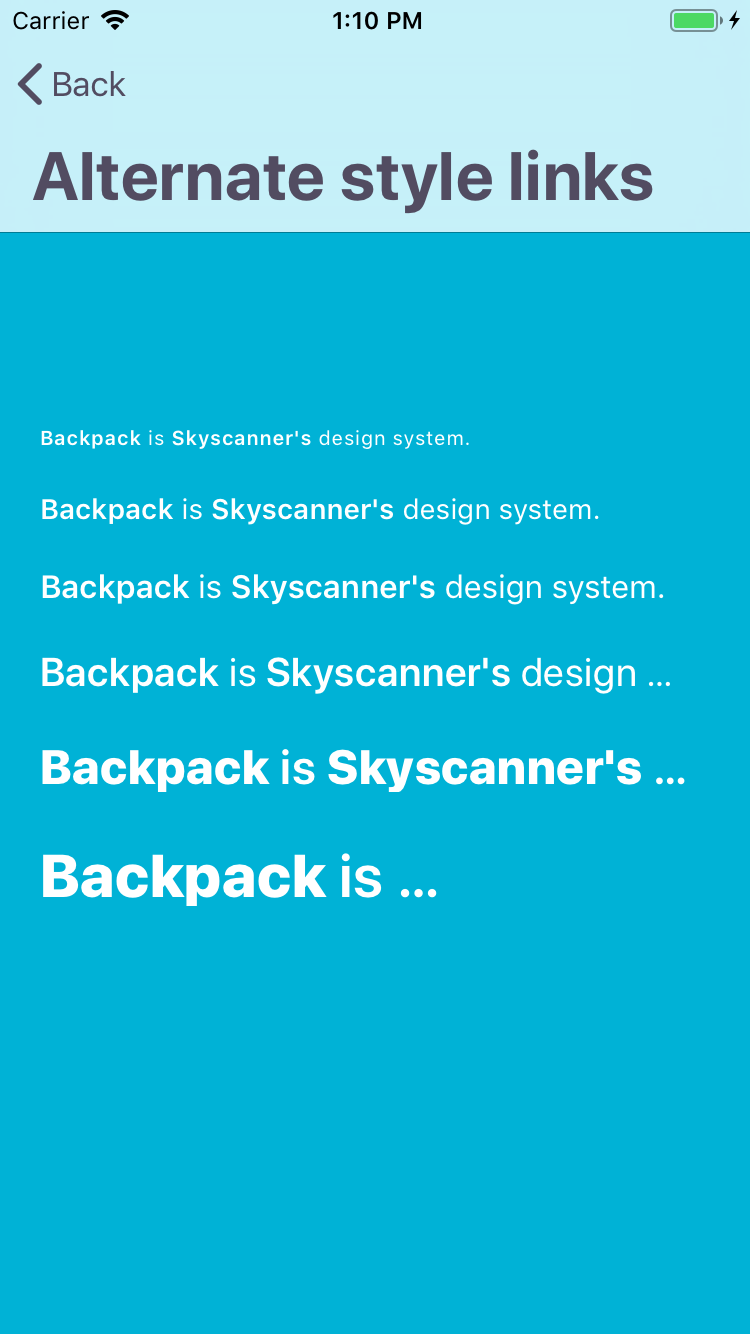
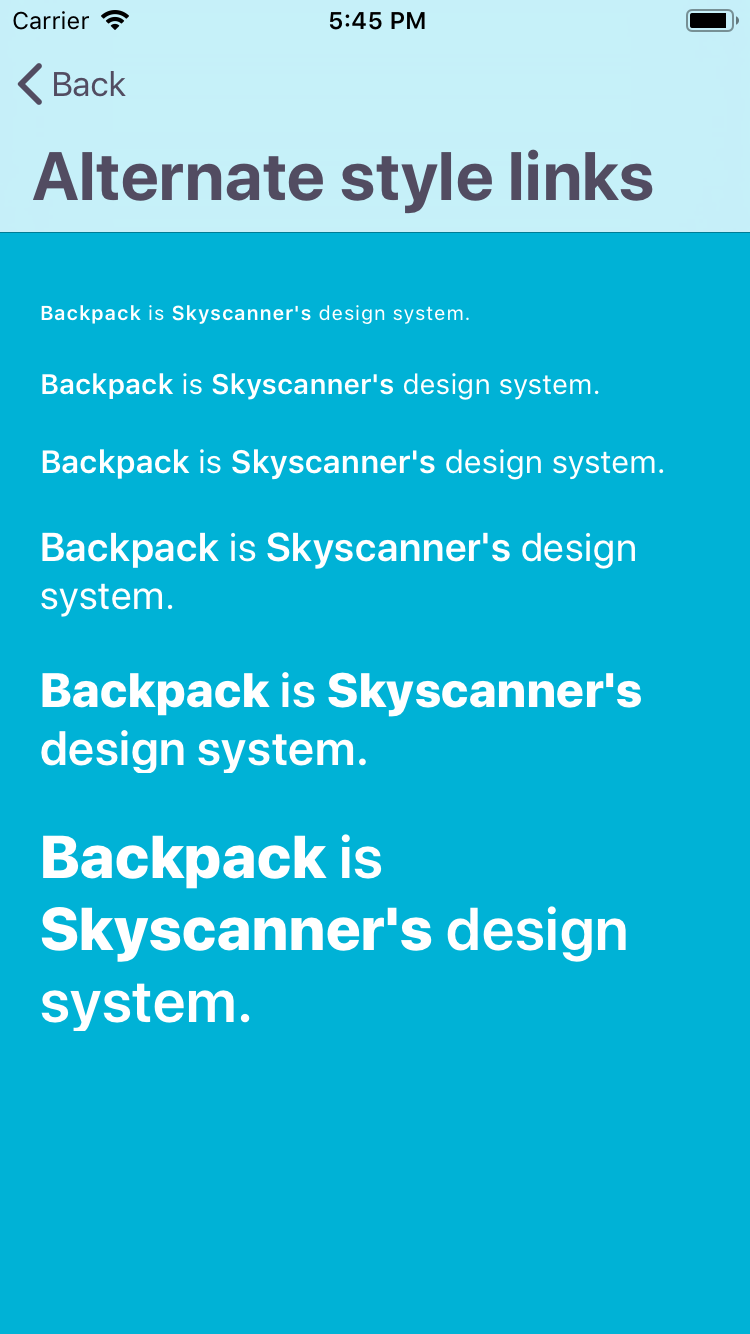
[BPK-2596] Add ID API to Tappable Link Labels

diff --git a/Example/Backpack/View Controllers/TappableLinkLabelsViewController.swift b/Example/Backpack/View Controllers/TappableLinkLabelsViewController.swift
@@ -24,7 +24,13 @@ enum LinkCount {
     case double
 }
 
-class TappableLinkLabelsViewController: UIViewController {
+enum LinkType {
+    case web
+    case print
+}
+
+class TappableLinkLabelsViewController: UIViewController, BPKTappableLinkLabelDelegate {
+    var linkType: LinkType = .web
     var linkCount: LinkCount = .single
     var style: BPKTappableLinkLabelStyle = .default
     var fontStyles = [
@@ -60,21 +66,32 @@ class TappableLinkLabelsViewController: UIViewController {
             tappableLink.fontStyle = fontStyles[linkIndex]
             tappableLink.style = style
             tappableLink.delegate = self
-            tappableLink.numberOfLines = 2
+            tappableLink.numberOfLines = 3
 
-            tappableLink.addLink(to: URL(string: "https://backpack.github.io/")!, with: firstRange)
+            if linkType == .web {
+                tappableLink.addLink(to: URL(string: "https://backpack.github.io/")!, with: firstRange)
 
-            if linkCount == .double {
-                tappableLink.addLink(to: URL(string: "https://www.skyscanner.net/")!, with: secondRange)
+                if linkCount == .double {
+                    tappableLink.addLink(to: URL(string: "https://www.skyscanner.net/")!, with: secondRange)
+                }
+            }
+            if linkType == .print {
+                tappableLink.addLink(toTransitInformation: ["link text": "Backpack"], with: firstRange)
+
+                if linkCount == .double {
+                    tappableLink.addLink(toTransitInformation: ["link text": "Skyscanner's"], with: secondRange)
+                }
             }
             linkIndex += 1
         }
     }
 
-}
-
-extension TappableLinkLabelsViewController: BPKTappableLinkLabelDelegate {
     func attributedLabel(_ label: TappableLinkLabel, didSelectLinkWith url: URL) {
         UIApplication.shared.open(url, options: [:], completionHandler: nil)
+    }
+
+    func attributedLabel(_ label: TappableLinkLabel,
+                         didSelectLinkWithTransitInformation components: [AnyHashable: Any]) {
+        print(components)
     }
 }

diff --git a/Example/Backpack/View Controllers/TappableLinkLabelsSelectorViewController.swift b/Example/Backpack/View Controllers/TappableLinkLabelsSelectorViewController.swift
@@ -33,6 +33,10 @@ class TappableLinkLabelsSelectorViewController: UITableViewController {
             segue.destination.title = "Alternate style links"
             maybeTappableLinkLabelsController?.linkCount = .double
             maybeTappableLinkLabelsController?.style = .alternate
+        case "NonURLLinks":
+            segue.destination.title = "Non-URL links"
+            maybeTappableLinkLabelsController?.linkCount = .double
+            maybeTappableLinkLabelsController?.linkType = .print
         default:
             fatalError("Unknown segue identifer \(segue.identifier.debugDescription)")
         }

diff --git a/Example/Backpack/View Controllers/TextViewsViewController.swift b/Example/Backpack/View Controllers/TextViewsViewController.swift
@@ -25,6 +25,5 @@ class TextViewsViewController: UIViewController {
     override func viewDidLoad() {
         super.viewDidLoad()
 
-        textView.accessibilityIdentifier = "textView"
     }
 }

diff --git a/Backpack/TappableLinkLabel/Classes/BPKTappableLinkLabel.m b/Backpack/TappableLinkLabel/Classes/BPKTappableLinkLabel.m
@@ -121,7 +121,8 @@ NS_ASSUME_NONNULL_BEGIN
 }
 
 - (BPKFontStyle)linkFontStyle {
-    return self.style == BPKTappableLinkLabelStyleAlternate ? [self getEmphasizedFontStyleFor:self.fontStyle] : self.fontStyle;
+    return self.style == BPKTappableLinkLabelStyleAlternate ? [self getEmphasizedFontStyleFor:self.fontStyle]
+                                                            : self.fontStyle;
 }
 
 - (NSDictionary *)customFontAttributes {
@@ -129,7 +130,7 @@ NS_ASSUME_NONNULL_BEGIN
 }
 
 - (UIColor *)linkDisplayColor {
-    if(self.style == BPKTappableLinkLabelStyleAlternate) {
+    if (self.style == BPKTappableLinkLabelStyleAlternate) {
         return BPKColor.white;
     }
 
@@ -137,8 +138,10 @@ NS_ASSUME_NONNULL_BEGIN
 }
 
 - (void)updateTextColors {
-    NSDictionary *linkCustomAttributes =
-        @{NSForegroundColorAttributeName: self.linkDisplayColor, NSUnderlineStyleAttributeName: @(NSUnderlineStyleNone)};
+    NSDictionary *linkCustomAttributes = @{
+        NSForegroundColorAttributeName: self.linkDisplayColor,
+        NSUnderlineStyleAttributeName: @(NSUnderlineStyleNone)
+    };
     self.contentView.linkAttributes = [BPKFont attributesForFontStyle:self.linkFontStyle
                                                  withCustomAttributes:linkCustomAttributes
                                                           fontMapping:self.fontMapping];
@@ -160,16 +163,22 @@ NS_ASSUME_NONNULL_BEGIN
         return;
     }
 
-    NSDictionary<NSAttributedStringKey, id> *newStringAttributes = [BPKFont attributesForFontStyle:self.fontStyle
-                                                                            withCustomAttributes:self.customFontAttributes
-                                                                                     fontMapping:self.fontMapping];
+    NSDictionary<NSAttributedStringKey, id> *newStringAttributes =
+        [BPKFont attributesForFontStyle:self.fontStyle
+                   withCustomAttributes:self.customFontAttributes
+                            fontMapping:self.fontMapping];
 
-    NSAttributedString *newString = [[NSAttributedString alloc] initWithString:self.text attributes:newStringAttributes];
+    NSAttributedString *newString = [[NSAttributedString alloc] initWithString:self.text
+                                                                    attributes:newStringAttributes];
     self.contentView.text = newString;
 
     // Re-apply the links
     for (BPKTappableLinkDefinition *linkDefinition in _persistedLinks) {
-        [self.contentView addLinkToURL:linkDefinition.url withRange:linkDefinition.range];
+        if (linkDefinition.url) {
+            [self.contentView addLinkToURL:linkDefinition.url withRange:linkDefinition.range];
+        } else {
+            [self.contentView addLinkToTransitInformation:linkDefinition.components withRange:linkDefinition.range];
+        }
     }
 }
 
@@ -177,6 +186,13 @@ NS_ASSUME_NONNULL_BEGIN
     [_persistedLinks addObject:[[BPKTappableLinkDefinition alloc] initWithURL:url range:range]];
 
     [self.contentView addLinkToURL:url withRange:range];
+    return self;
+}
+
+- (instancetype)addLinkToTransitInformation:(NSDictionary *)components withRange:(NSRange)range {
+    [_persistedLinks addObject:[[BPKTappableLinkDefinition alloc] initWithTransitInformation:components range:range]];
+
+    [self.contentView addLinkToTransitInformation:components withRange:range];
     return self;
 }
 
@@ -228,7 +244,7 @@ NS_ASSUME_NONNULL_BEGIN
 }
 
 - (void)setNumberOfLines:(NSInteger)numberOfLines {
-    if(self.contentView.numberOfLines != numberOfLines) {
+    if (self.contentView.numberOfLines != numberOfLines) {
         self.contentView.numberOfLines = numberOfLines;
     }
 }
@@ -242,6 +258,12 @@ NS_ASSUME_NONNULL_BEGIN
 - (void)attributedLabel:(BPKTappableLinkLabel *)label didSelectLinkWithURL:(NSURL *)url {
     if (self.delegate != nil) {
         [self.delegate attributedLabel:label didSelectLinkWithURL:url];
+    }
+}
+
+- (void)attributedLabel:(BPKTappableLinkLabel *)label didSelectLinkWithTransitInformation:(NSDictionary *)components {
+    if (self.delegate != nil) {
+        [self.delegate attributedLabel:label didSelectLinkWithTransitInformation:components];
     }
 }
 

diff --git a/Backpack/TextView/Classes/BPKTextView.m b/Backpack/TextView/Classes/BPKTextView.m
@@ -80,25 +80,18 @@ NS_ASSUME_NONNULL_BEGIN
     self.attributedText = attributedString;
 }
 
-- (void)setTextColor:(UIColor * _Nullable)textColor {
-    BPKAssertMainThread();
-    [super setTextColor:textColor];
-
-    [self updateStyle];
-}
-
 - (void)setFontStyle:(BPKFontStyle)fontStyle {
     BPKAssertMainThread();
     _fontStyle = fontStyle;
 
-    [self updateStyle];
+    [self setText:self.attributedText.string];
 }
 
 - (void)setFontMapping:(BPKFontMapping *_Nullable)fontMapping {
     BPKAssertMainThread();
     _fontMapping = fontMapping;
 
-    [self updateStyle];
+    [self setText:self.attributedText.string];
 }
 
 #pragma mark - Private
@@ -106,17 +99,6 @@ NS_ASSUME_NONNULL_BEGIN
 - (void)setupWithStyle:(BPKFontStyle)style {
     self.fontStyle = style;
     self.textColor = [BPKColor gray700];
-
-    [self updateStyle];
-}
-
-- (void)updateStyle {
-    NSDictionary *colorAttributes = self.textColor ? @{NSForegroundColorAttributeName: self.textColor} : @{};
-    self.typingAttributes = [BPKFont attributesForFontStyle:self.fontStyle
-                                       withCustomAttributes:colorAttributes
-                                                fontMapping:self.fontMapping];
-
-    [self setText:self.attributedText.string];
 }
 
 @end

diff --git a/Backpack/TappableLinkLabel/Classes/BPKTappableLinkLabel.h b/Backpack/TappableLinkLabel/Classes/BPKTappableLinkLabel.h
@@ -122,5 +122,13 @@ NS_SWIFT_NAME(TappableLinkLabel) IB_DESIGNABLE @interface BPKTappableLinkLabel :
  */
 - (instancetype)addLinkToURL:(NSURL *)url withRange:(NSRange)range;
 
+/**
+ * Add a tappable section to the label.
+ *
+ * @param components The Transit Information used to signify the event when the link is tapped.
+ * @param range The range of characters in the TappableLinkLabel to apply the link to.
+ */
+- (instancetype)addLinkToTransitInformation:(NSDictionary *)components withRange:(NSRange)range;
+
 @end
 NS_ASSUME_NONNULL_END

diff --git a/Example/SnapshotTests/BPKTappableLinkLabelSnapshotTest.m b/Example/SnapshotTests/BPKTappableLinkLabelSnapshotTest.m
@@ -107,7 +107,7 @@ NS_ASSUME_NONNULL_BEGIN
     for (NSUInteger i = 0; i < length; i++) {
         BPKTappableLinkLabel *label = [[BPKTappableLinkLabel alloc] initWithFontStyle:styles[i]];
         label.text = @"Backpack Rocks";
-        [label addLinkToURL:[NSURL URLWithString:@"https://backpack.github.io/"] withRange:NSMakeRange(0, 8)];
+        [label addLinkToTransitInformation:@{} withRange:NSMakeRange(0, 8)];
         [stackView addArrangedSubview:label];
         [label sizeToFit];
     }

diff --git a/Backpack/TappableLinkLabel/Classes/BPKTappableLinkDefinition.h b/Backpack/TappableLinkLabel/Classes/BPKTappableLinkDefinition.h
@@ -24,8 +24,10 @@ NS_ASSUME_NONNULL_BEGIN
 
 @property(readonly) NSRange range;
 @property(readonly, strong) NSURL *url;
+@property(readonly, strong) NSDictionary *components;
 
 - (instancetype)initWithURL:(NSURL *)url range:(NSRange)range;
+- (instancetype)initWithTransitInformation:(NSDictionary *)components range:(NSRange)range;
 
 @end
 NS_ASSUME_NONNULL_END

diff --git a/Backpack/TappableLinkLabel/Classes/BPKTappableLinkDefinition.m b/Backpack/TappableLinkLabel/Classes/BPKTappableLinkDefinition.m
@@ -32,6 +32,17 @@ NS_ASSUME_NONNULL_BEGIN
     return self;
 }
 
+- (instancetype)initWithTransitInformation:(NSDictionary *)components range:(NSRange)range {
+    self = [super init];
+
+    if (self) {
+        _components = components;
+        _range = range;
+    }
+
+    return self;
+}
+
 @end
 
 NS_ASSUME_NONNULL_END

diff --git a/Backpack/TappableLinkLabel/Classes/BPKTappableLinkLabelDelegate.h b/Backpack/TappableLinkLabel/Classes/BPKTappableLinkLabelDelegate.h
@@ -23,6 +23,7 @@ NS_ASSUME_NONNULL_BEGIN
 @protocol BPKTappableLinkLabelDelegate
 
 - (void)attributedLabel:(BPKTappableLinkLabel *)label didSelectLinkWithURL:(NSURL *)url;
+- (void)attributedLabel:(BPKTappableLinkLabel *)label didSelectLinkWithTransitInformation:(NSDictionary *)components;
 
 @end
 

diff --git a/Backpack/TappableLinkLabel/README.md b/Backpack/TappableLinkLabel/README.md
@@ -11,9 +11,10 @@
 
 BPKTappableLinkLabel *tappableLinkLabel = [[BPKTappableLinkLabel alloc] initWithFontStyle:BPKFontStyleTextBase];
 tappableLinkLabel.text = @“Find out more about our terms of service.”
-tappableLinkLabel.delegate = self;
+[tappableLinkLabel setDelegate:self];
 
 [tappableLinkLabel addLinkToURL:[NSURL URLWithString:@"http:..."] withRange:NSRange(location:24, length:16)];
+[tappableLinkLabel addLinkToTransitInformation:@{} withRange:NSRange(location:24, length:16)];
 // Position label with autolayout or other method
 
 // Apply alternative style:
@@ -21,10 +22,16 @@ tappableLinkLabel.style = BPKTappableLinkLabelStyleAlternative;
 
 ...
 
-#pragma BPKTappableLabelDelegate
+#pragma mark - <BPKTappableLabelDelegate>
 
-- (void)attributedLabel:(BPKTappableLinkLabel *)label didSelectLinkWithURL:(NSURL *)url {
-    [delegate openURL:url];
+- (void)attributedLabel:(TTTAttributedLabel *)label didSelectLinkWithURL:(NSURL *)url
+{
+    [_presenter urlTapped:url];
+}
+
+- (void)attributedLabel:(TTTAttributedLabel *)label didSelectLinkWithTransitInformation:(NSDictionary *)components
+{
+    // do stuff
 }
 ```
 
@@ -33,11 +40,12 @@ tappableLinkLabel.style = BPKTappableLinkLabelStyleAlternative;
 ```swift
 import Backpack
 
-let tappableLinkLabel = Backpack.TappableLinkLabel(fontStyle: .base)
+let tappableLinkLabel = Backpack.TappableLinkLabel(fontStyle: .textBase)
 tappableLinkLabel.text = “Find out more about our terms of service.”
 tappableLinkLabel.delegate = self;
 
-tappableLinkLabel.addLinkToURL(url: "https:...", withRange: Range(location:24, length:16));
+tappableLinkLabel.addLink(to: URL(string: "https:...")!, withRange: Range(location:24, length:16));
+tappableLinkLabel.addLink(toTransitInformation: ["identifier": "some link thing"], withRange: Range(location:24, length:16));
 // Position label with autolayout or other method
 
 // Apply alternative style:
@@ -45,10 +53,15 @@ tappableLinkLabel.style = .alternative
 
 ...
 
-extension MyClass: BPKTappableLinkLabelDelegate {
-    func attributedLabel(_ label: BPKTappableLinkLabel!, didSelectLinkWith url: URL!) {
-        delegate?.openURL(url)
-    }
+extension MyClass: TTTAttributedLabelDelegate {
+  func attributedLabel(_ label: TappableLinkLabel, didSelectLinkWith url: URL) {
+      UIApplication.shared.open(url, options: [:], completionHandler: nil)
+  }
+
+  func attributedLabel(_ label: TappableLinkLabel,
+                       didSelectLinkWithTransitInformation components: [AnyHashable: Any]) {
+      print(components)
+  }
 }
 ```
 

diff --git a/UNRELEASED.md b/UNRELEASED.md
@@ -3,7 +3,9 @@
 **Added:**
 
 - Backpack/TappableLinkLabel:
+  - Added method for adding a link with Transit Information (an `NSDictionary`) instead of creating with a URL.
   - New `style` property which can be used when placing the link label over a blue/dark background.
+  - Added `numberOfLines` property.
 
 > Place your changes below this line.
 
